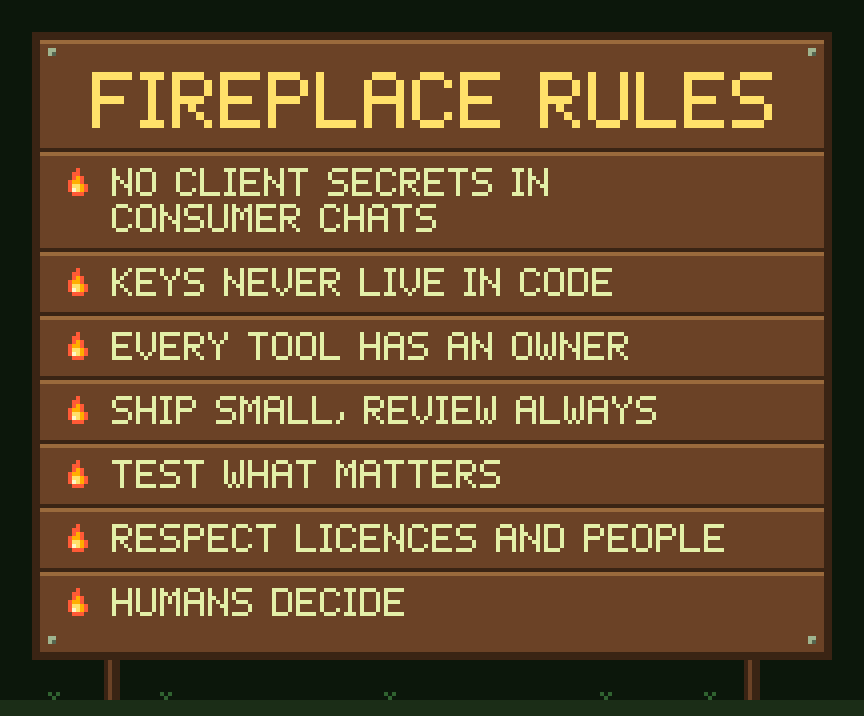
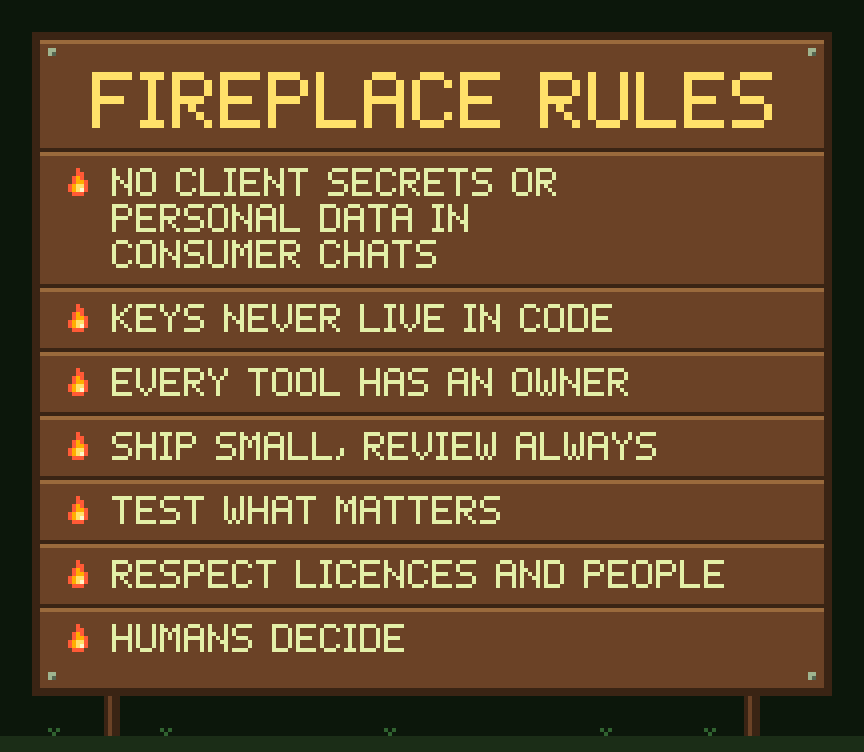
fix(campfire): Red-Team-Befunde zu Version 3 (Inhalte)
- Feuer ist "one of our first technologies", der Dartmouth-Sommer "is still
  going", Urteil zum Sommer-Mythos "half", 1955er Antrag
- vave.log-Kanban: Ideen und Fragen statt Now/Next, kein "live", keine
  Entscheidungsspalte; Abstimmung "Which idea would help your work most?"
- Try on Monday innerhalb von VAVEs KI-Regeln; keine Beruhigung über
  Arbeitsplätze; GitHub-Organisation als Möglichkeit, nicht als Tatsache
- Key Goblin: Secret Scanning und Push Protection, gepushte Schlüssel
  rotieren; Leaker und Regel 1 schließen personenbezogene Daten ein
- Keine Zeit- und Ortsangaben zur eigenen Arbeit (afternoon, train, 1 year)

Claude-Session: https://claude.ai/code/session_012oUv5g4QmRGXWoVekxDNZP

Changed region(s): [[0.0312, 0.0922, 0.9688, 0.9525], [0.0312, 0.0307, 0.9688, 0.0615], [0.7188, 0.0922, 0.75, 0.1229]]

diff --git a/campfire/index.html b/campfire/index.html
@@ -55,7 +55,7 @@
     <div>
       <span class="px-label">Campfire talk · VAVE · 90 minutes · English</span>
       <h1>PLAYING<br>WITH FIRE</h1>
-      <p>Stories around the fire, about AI. Fire was humanity's first technology; AI might be its latest. One evening, eight chapters: the old tales and the rumours, the words people use, the first small fire and how to keep it going, a camp of many fires, the one we lit for VAVE, the smoke to watch out for, and the embers you take home.</p>
+      <p>Stories around the fire, about AI. Fire was one of our first technologies; AI might be one of our latest. One evening, eight chapters: the old tales and the rumours, the words people use, the first small fire and how to keep it going, a camp of many fires, the one we lit for VAVE, the smoke to watch out for, and the embers you take home.</p>
       <p class="meta px-label">A talk on AI, vibecoding and repos by Hannes · pix·el</p>
     </div>
     <svg class="fire pixelart" id="hero-fire" viewBox="0 0 24 24" role="img" aria-label="A crackling pixel campfire"></svg>
@@ -65,13 +65,13 @@
   <p class="lead">Eight chapters around one fire. Every deck and every tool is a single file: it works offline, on a phone, and inside the PixiNotes board.</p>
   <ol class="trail">
     <li class="station px-frame"><img class="cover" src="art/chapter-1.svg" alt="Chapter card I · The gathering" loading="lazy"><span class="nr">0:00</span><h3>I · The gathering</h3><p>The fire is lit. Who is telling tonight: a translator between problems and machines. Three promises, and questions are sticks for the fire.</p><div class="links"><a href="decks/gathering.html">Deck</a><a class="pdf" href="pdf/gathering.pdf">PDF</a></div></li>
-    <li class="station px-frame"><img class="cover" src="art/chapter-2.svg" alt="Chapter card II · Old fires" loading="lazy"><span class="nr">0:07 · Beginner</span><h3>II · Old fires</h3><p>Seventy years of AI stories, from the summer that took 70 years to glue on pizza. Then the rumours: myth or fact?</p><div class="links"><a href="decks/old-fires.html">Deck</a><a class="mod" href="modules/myth-or-fact.html">Myth or Fact?</a><a class="pdf" href="pdf/old-fires.pdf">PDF</a></div></li>
+    <li class="station px-frame"><img class="cover" src="art/chapter-2.svg" alt="Chapter card II · Old fires" loading="lazy"><span class="nr">0:07 · Beginner</span><h3>II · Old fires</h3><p>Seventy years of AI stories, from a summer that is still going to the newest rumours. Then the room votes: myth or fact?</p><div class="links"><a href="decks/old-fires.html">Deck</a><a class="mod" href="modules/myth-or-fact.html">Myth or Fact?</a><a class="pdf" href="pdf/old-fires.pdf">PDF</a></div></li>
     <li class="station px-frame"><img class="cover" src="art/chapter-3.svg" alt="Chapter card III · Words by the fire" loading="lazy"><span class="nr">0:19 · Beginner</span><h3>III · Words by the fire</h3><p>The words everybody uses, said plainly with booths and showrooms: tokens are Lego, the context window is the booth footprint, MCP is the power socket.</p><div class="links"><a href="decks/words.html">Deck</a><a class="mod" href="modules/token-oracle.html">Token Oracle</a><a class="mod" href="modules/context-circle.html">Context Circle</a><a class="mod" href="modules/inventory.html">All 30 words</a><a class="pdf" href="pdf/words.pdf">PDF</a></div></li>
     <li class="station px-frame"><img class="cover" src="art/chapter-4.svg" alt="Chapter card IV · Kindling" loading="lazy"><span class="nr">0:33 · Beginner → Casual</span><h3>IV · Kindling</h3><p>Your first small fire: one HTML file, one good briefing, a live booth mini-build. Then how to keep it going: the loop, memory files, your brand.</p><div class="links"><a href="decks/kindling.html">Deck</a><a class="mod" href="modules/prompt-forge.html">Prompt Forge</a><a class="pdf" href="pdf/kindling.pdf">PDF</a></div></li>
     <li class="station px-frame"><img class="cover" src="art/chapter-5.svg" alt="Chapter card V · Many fires" loading="lazy"><span class="nr">0:50 · Advanced</span><h3>V · Many fires</h3><p>GitHub as the camp: one account, many organizations, many AIs through one workflow, and many repos remixed like Lego.</p><div class="links"><a href="decks/many-fires.html">Deck</a><a class="mod" href="modules/git-time-machine.html">Git Time Machine</a><a class="pdf" href="pdf/many-fires.pdf">PDF</a></div></li>
     <li class="station px-frame"><img class="cover" src="art/chapter-6.svg" alt="Chapter card VI · A fire for VAVE" loading="lazy"><span class="nr">1:03 · Advanced</span><h3>VI · A fire for VAVE</h3><p>The making of vave.log, a tool built for VAVE and a draft in testing: how it grew, what it can do, and proposals for what comes next.</p><div class="links"><a href="decks/vave-fire.html">Deck</a><a class="pdf" href="pdf/vave-fire.pdf">PDF</a></div></li>
     <li class="station px-frame"><img class="cover" src="art/chapter-7.svg" alt="Chapter card VII · Smoke" loading="lazy"><span class="nr">1:15</span><h3>VII · Smoke</h3><p>Every campfire has ghost stories. Ours are true: seven of them, each with a way to keep it away. Plus the fireplace rules.</p><div class="links"><a href="decks/smoke.html">Deck</a><a class="mod" href="modules/fireplace-check.html">Fireplace Check</a><a class="pdf" href="pdf/smoke.pdf">PDF</a></div></li>
-    <li class="station px-frame"><img class="cover" src="art/chapter-8.svg" alt="Chapter card VIII · Embers" loading="lazy"><span class="nr">1:23</span><h3>VIII · Embers</h3><p>What you take home: side quests for communication in space, the Booth Builder, one experiment for Monday, and your questions.</p><div class="links"><a href="decks/embers.html">Deck</a><a class="mod" href="modules/booth-builder.html">Booth Builder</a><a class="pdf" href="pdf/embers.pdf">PDF</a></div></li>
+    <li class="station px-frame"><img class="cover" src="art/chapter-8.svg" alt="Chapter card VIII · Embers" loading="lazy"><span class="nr">1:23</span><h3>VIII · Embers</h3><p>What you take home: ideas for spaces, the Booth Builder, one small experiment for Monday, your questions, and the last words by the fire.</p><div class="links"><a href="decks/embers.html">Deck</a><a class="mod" href="modules/booth-builder.html">Booth Builder</a><a class="pdf" href="pdf/embers.pdf">PDF</a></div></li>
   </ol>
 
   <h2>Take the whole evening</h2>

diff --git a/campfire/shared/lore.js b/campfire/shared/lore.js
@@ -133,7 +133,7 @@
   /* ── AI history: the lore. Phrased carefully; numbers are approximate where marked. ── */
   const HISTORY = [
     { year: '1950', title: 'The imitation game', text: 'Alan Turing asks whether machines can think, and proposes a test: can it pass as human in a text chat?' },
-    { year: '1956', title: 'The summer that took 70 years', text: 'A proposal for a summer workshop at Dartmouth coins "artificial intelligence". It hoped a group of ten could make real progress over one summer.' },
+    { year: '1956', title: 'The summer that is still going', text: 'The 1955 proposal for a 1956 summer workshop at Dartmouth coins "artificial intelligence". It hoped a group of ten could make real progress over one summer.' },
     { year: '1966', title: 'ELIZA', text: 'A tiny script plays therapist by turning your sentences into questions. Its inventor was shocked how much people confided in it.' },
     { year: '1970s–90s', title: 'AI winters', text: 'Big promises, small results, frozen budgets. Twice. A good reminder for every hype cycle.' },
     { year: '1997', title: 'Deep Blue', text: 'IBM\'s chess computer beats world champion Garry Kasparov.' },
@@ -151,8 +151,8 @@
 
   /* ── Myth or fact? verdict: fact | myth | half | rumour | depends ── */
   const MYTHS = [
-    { claim: 'AI researchers once planned to crack it in a single summer.', verdict: 'fact',
-      why: 'The 1955 proposal for the Dartmouth workshop hoped ten people over two months could make a significant advance.' },
+    { claim: 'AI researchers once planned to crack it in a single summer.', verdict: 'half',
+      why: 'The 1955 proposal for the Dartmouth workshop hoped ten people over two months could make a significant advance. Not to crack it, but close enough to be a famous overestimate.' },
     { claim: 'The first computer bug was a real moth.', verdict: 'half',
       why: 'In 1947 a moth was taped into the Harvard Mark II logbook as the "first actual case of bug being found". The word "bug" was already older.' },
     { claim: 'A car dealer\'s chatbot sold a new SUV for one dollar.', verdict: 'half',
@@ -178,21 +178,21 @@
     { claim: '"Vibe coding" was a Word of the Year.', verdict: 'fact',
       why: 'Collins Dictionary chose it for 2025, less than a year after Karpathy coined it.' },
     { claim: 'AI will replace designers by 2025.', verdict: 'myth',
-      why: 'It is 2026. You are still here, and the tools need your taste more than ever.' },
+      why: 'Nobody here was replaced by 2025. How roles change is for VAVE to shape.' },
   ];
 
-  /* ── Bosses: the risks, as a boss fight. weakness = what beats it. ── */
+  /* ── Ghost stories in the smoke: the risks. hp = what it does, weakness = how to keep it away. ── */
   const BOSSES = [
     { id: 'hallucinator', name: 'The Hallucinator', hp: 'confident errors', weakness: 'Verify facts, ask for sources, test what it built.' },
-    { id: 'leaker', name: 'The Leaker', hp: 'confidential data in the wrong chat', weakness: 'Business plan, client NDA first, anonymise, ask before pasting.' },
-    { id: 'goblin', name: 'The Key Goblin', hp: 'passwords and keys in code', weakness: 'Secrets in a vault, never in files; let an AI audit your repos and rotate what it finds.' },
+    { id: 'leaker', name: 'The Leaker', hp: 'client or personal data in the wrong chat', weakness: 'Business plan, client NDA first, anonymise, ask before pasting.' },
+    { id: 'goblin', name: 'The Key Goblin', hp: 'passwords and keys in code', weakness: 'Turn on secret scanning and push protection. A key that was ever pushed is burnt: rotate it.' },
     { id: 'lich', name: 'The Licence Lich', hp: 'fonts, images, code, AI output', weakness: 'Use what you own or license; check tool terms and the client contract; label AI content where required.' },
     { id: 'golem', name: 'The Orphan Golem', hp: 'tools nobody maintains', weakness: 'Every tool has an owner; docs live in the repo.' },
     { id: 'dragon', name: 'The Lock-in Dragon', hp: 'one vendor for everything', weakness: 'Work through GitHub pull requests and open formats; then any AI can take the next shift.' },
     { id: 'drain', name: 'The Brain Drain', hp: 'people stop thinking', weakness: 'AI amplifies taste. Keep the taste human.' },
   ];
 
-  /* ── Side quests: where AI helps communication in space (VAVE's world) ── */
+  /* ── Ideas for spaces: where AI could help communication in space (VAVE's world) ── */
   const QUESTS = [
     { title: 'Concept sprint', text: 'Moodboards, AI renders and a clickable walk-through of the booth in a day, before the first CAD line.' },
     { title: 'Fair rules decoder', text: 'Turn an 80-page technical guideline into a checklist: heights, fire safety, rigging, deadlines. Human checks the result.' },
@@ -204,9 +204,9 @@
     { title: 'Pitch prototypes', text: 'Clients click through the idea instead of reading about it.' },
   ];
 
-  /* ── The fireplace rules (unchanged) ── */
+  /* ── The fireplace rules ── */
   const RULES = [
-    'No client secrets in consumer chats.',
+    'No client secrets or personal data in consumer chats.',
     'Keys never live in code.',
     'Every tool has an owner.',
     'Ship small, review always.',

diff --git a/campfire/ROTER-FADEN.md b/campfire/ROTER-FADEN.md
@@ -18,7 +18,7 @@
 
 ## The story in one breath
 
-**Fire was humanity's first technology; AI might be its latest. Tonight we sit around one fire and tell its story:
+**Fire was one of our first technologies; AI might be one of our latest. Tonight we sit around one fire and tell its story:
 how we gathered, the old tales and the rumours, the words people use, how to light your first small fire and keep it
 going, how many fires make a camp, the one we lit for VAVE, the smoke to watch out for, and the embers you take
 home.**
@@ -49,18 +49,18 @@ Motifs that carry the evening (light touch, never a game):
 | 0:19 | **III · Words by the fire** | Beginner | deck *Words by the fire*, *Token Oracle*, *Context Circle*, *Words* (30 terms) |
 | 0:33 | **IV · Kindling** | Beginner → Casual | deck *Kindling*, *Prompt Forge* |
 | 0:50 | **V · Many fires** | Advanced | deck *Many fires*, *Git Time Machine* |
-| 1:03 | **VI · A fire for VAVE** | Advanced | deck *A fire for VAVE*, kanban *vave.log: proposals* (the room can move cards; the last column, *Decided by VAVE*, stays empty) |
+| 1:03 | **VI · A fire for VAVE** | Advanced | deck *A fire for VAVE*, kanban *vave.log: ideas, not decisions* |
 | 1:15 | **VII · Smoke** | all | deck *Smoke*, *Fireplace Check* |
-| 1:23 | **VIII · Embers** | all | bubbles *Side quests*, *Booth Builder*, kanban *Try on Monday*, bubbles *Your questions*, then the deck *Embers* closes the evening |
+| 1:23 | **VIII · Embers** | all | bubbles *Ideas for spaces*, *Booth Builder*, kanban *Try on Monday*, bubbles *Your questions*, then the deck *Embers* closes the evening |
 
 ---
 
 ## I · The gathering (0:00–0:07)
 
-**Mood:** dark room, one fire, everyone pulls a chair closer. [⇢ deck *The gathering*, `art/title-fire.svg`]
+**Mood:** dark room, one fire, everyone pulls a chair closer. [⇢ deck *The gathering*, `art/campfire-scene.svg`]
 
 - **Open with the fire, not with yourself:** "Long before anyone wrote, people sat around a fire and told stories.
-  Fire was our first technology. Tonight we talk about what might be the latest one."
+  Fire was one of our first technologies. Tonight we talk about what might be one of the latest."
 - **Who's telling:** farm kid, winery, wine engineer, public administration, 41 repositories
   [⇢ `art/life-strip.svg`, `art/repo-wall.svg`].
   > "I'm not a developer. My day job is in public administration, not in IT. What I am is a translator: I know what
@@ -76,7 +76,7 @@ Motifs that carry the evening (light touch, never a game):
 `art/lore-strip.svg`]
 
 - **Told as one story, not a list:** 1950 Turing asks if machines can think → 1956 a proposal hopes to crack it in
-  one summer (the summer took 70 years) → 1966 ELIZA, and people confide in a script → two winters after big
+  one summer (that summer is still going) → 1966 ELIZA, and people confide in a script → two winters after big
   promises → 1997 Deep Blue, 2016 Move 37 → 2017 the Transformer, the T in GPT → 2022 ChatGPT → 2024 glue on pizza
   → 2025 "vibe coding" gets a name → tonight.
 - **Rumours by the fire** [⇢ module *Myth or Fact?*]: the room votes with hands, Hannes reveals. 14 tales, from "the
@@ -128,10 +128,10 @@ Three pictures to keep, each with a live tool:
 - **Keeping it going:** the loop Describe → Build → Look → Feedback. Screenshots beat words. That's design work, and
   designers are good at it.
 - **AI forgets, files remember:** `CLAUDE.md` / `AGENTS.md` (how we work here), design principles (the CD as rules),
-  `STATE.md` (where we are). Every coding AI reads them.
+  `STATE.md` (where we are). `CLAUDE.md` / `AGENTS.md` is read first; it points to the other two.
 - **Brand in, brand out:** give it your CD and it follows it. **For spaces:** liquid type, letters you pull and burst,
   imagined on an LED wall that reacts to visitors.
-- **From phone to production:** a change asked for on the train, reviewed as a pull request, live minutes later.
+- **From phone to production:** a change asked for from the phone, reviewed as a pull request, live minutes later.
 - **Ember:** "A small fire is still a fire. Taste is what keeps it burning."
 
 ## V · Many fires: GitHub, many accounts, many AIs, many repos (0:50–1:03)
@@ -142,7 +142,7 @@ different AIs work together, and how to build like Lego, not monoliths. [⇢ dec
 
 - **GitHub in six words** [⇢ *Git Time Machine*]: repository = folder with memory · commit = a saved version · branch =
   variant B · pull request = client approval round · Actions = safety inspectors · Pages = shop window.
-- **One person, one account, many camps:** your personal account joins the VAVE organization. People come and go; the
+- **One person, one account, many camps:** if VAVE sets up a GitHub organization, your account can join it. People come and go; the
   work stays with the agency. Teams and roles (read, triage, write, maintain, admin); a freelancer gets one repo, not
   the whole house; bots and AI agents get their own limited keys; `main` only through a reviewed pull request;
   `CODEOWNERS` lets the brand guardian approve design files; secrets live in the vault, never in the code.
@@ -168,8 +168,8 @@ use. [⇢ deck *A fire for VAVE*, `art/vavelog-quest.svg`]
 - **How it started:** a discovery project, a survey as one HTML file and a clickable prototype. Then vave.log was
   built on assumptions and public research, on purpose, as a phase-one draft to be tested with real people.
   > "Every feature in here is a hypothesis until you've used it."
-- **How it grew** (from the repository's history, 105 commits, pull requests up to #91): Day 1, an empty repo becomes
-  a working app with login and the MCP foundation · Day 2, about 30 pull requests · Day 3, invoices, quotes that turn
+- **How it grew** (from the repository's history, 105 commits, pull requests up to #91): Day 1, login and the MCP
+  foundation · Day 2, about 30 pull requests · Day 3, invoices, quotes that turn
   into projects, checks against WCAG 2.2 AA · Week 2, eight milestones around leave and capacity · Weeks 5–6, an audit
   with about 60 findings, and the capacity plan rebuilt after **watching one real user work** · Week 6, group of
   companies, holidays for China, Dubai and Singapore, polish.
@@ -180,13 +180,11 @@ use. [⇢ deck *A fire for VAVE*, `art/vavelog-quest.svg`]
   plug for AI with 68 tools lets an assistant log time or ask "where is it burning?", with exactly the rights of the
   person asking. About 70 test files; every change passes checks before it goes live.
 - **The lesson:** the best feature came from watching one real person use it for an hour. Not from a prompt.
-- **Where it could go: proposals, not decisions** (agents propose, humans decide), on the board as a kanban the room
-  can move:
-  - **Now:** AI time entry with a proper consent screen · capacity plan v2 (rates per service, € per phase)
-  - **Next:** build-up radar (crews, trucks, hall slots) · fair deadline radar from the technical guidelines ·
-    modular stock (frames, LED tiles, furniture) · site reports from the phone · client approvals for render
-    variants
-  - **Later:** cross-company staffing · multi-currency invoices, only with tax advice
+- **Where it could go: ideas, not decisions** (agents propose, VAVE decides, not in this room). On the board as a
+  kanban with *Built, in test*, *Ideas* and *Questions for VAVE*. Ideas: AI time entry through MCP with a consent screen ·
+  capacity plan v2 (rates per service, € per phase) · build-up radar (crews, trucks, hall slots) · fair deadline radar
+  from the technical guidelines · modular stock (frames, LED tiles, furniture) · site reports from the phone · client
+  approvals for render variants · cross-company staffing · multi-currency invoices, only with tax advice.
 - **Ember:** "The best ideas come from watching, not prompting."
 
 ## VII · Smoke: ghost stories that are true (1:15–1:23)
@@ -197,8 +195,8 @@ use. [⇢ deck *A fire for VAVE*, `art/vavelog-quest.svg`]
 | In the smoke | What it does | How to keep it away |
 |---|---|---|
 | **The Hallucinator** | confident errors | verify, ask for sources, test what it built |
-| **The Leaker** | confidential data in the wrong chat | business plan, client NDA first, anonymise, ask |
-| **The Key Goblin** | passwords and keys in code | a vault, never in files; let an AI audit your repos, rotate what it finds |
+| **The Leaker** | client or personal data in the wrong chat | business plan, client NDA first, anonymise, ask |
+| **The Key Goblin** | passwords and keys in code | turn on secret scanning and push protection; a key that was ever pushed is burnt: rotate it |
 | **The Licence Lich** | fonts, images, code, AI output | own or license it, check tool terms and the client contract, label AI content where required |
 | **The Orphan Golem** | tools nobody maintains | every tool has an owner, docs live in the repo |
 | **The Lock-in Dragon** | one vendor for everything | pull requests and open formats, so any AI can take the next shift |
@@ -206,7 +204,7 @@ use. [⇢ deck *A fire for VAVE*, `art/vavelog-quest.svg`]
 
 - **Live:** [⇢ *Fireplace Check*]: six questions about a real task, then green, yellow or red. A rule of thumb, not
   legal advice: the client contract and the NDA always win.
-- **The fireplace rules:** no client secrets in consumer chats · keys never live in code · every tool has an owner ·
+- **The fireplace rules:** no client secrets or personal data in consumer chats · keys never live in code · every tool has an owner ·
   ship small, review always · test what matters · respect licences and people · humans decide.
 - **Ember:** "Mind the smoke, and the fire stays friendly."
 
@@ -214,11 +212,11 @@ use. [⇢ deck *A fire for VAVE*, `art/vavelog-quest.svg`]
 
 **Mood:** the fire is low, the conversation gets honest. [⇢ deck *Embers*]
 
-- **Side quests in space** (board: bubbles, three dots each): concept sprint · fair rules decoder · booth flow test ·
+- **Ideas for spaces** (board: bubbles, *which idea would help your work most?*): concept sprint · fair rules decoder · booth flow test ·
   living LED walls · showroom stories in four languages · modular reuse · build-up radar · pitch prototypes.
 - **Booth Builder** (board): place counter, LED wall and lounge, open the doors, watch where people stop. A rule-based
-  critic says what a visitor would say. Built in an afternoon; that's the point.
-- **Try on Monday** (board: kanban): one small experiment per person, with dummy data.
+  critic says what a visitor would say. Small enough to build quickly; that's the point.
+- **Try on Monday** (board: kanban): one small experiment per person, within VAVE's AI rules, with dummy data.
 - **Questions** (board: bubbles): the sticks the room threw into the fire.
 - **Last line:**
   > "Fire didn't replace cooks. It made cooking possible. Keep your taste, feed the fire, mind the smoke. Thanks for
